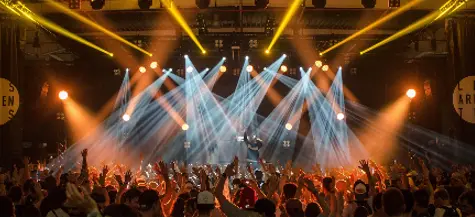
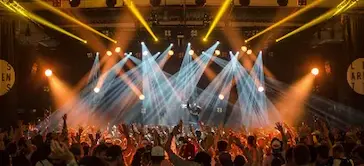
Update script and image

diff --git a/index.html b/index.html
@@ -4,12 +4,16 @@
     <meta charset="UTF-8" />
     <meta name="viewport" content="width=device-width, initial-scale=1.0" />
     <title>Grimm band</title>
+    <!-- Seo -->
     <meta
       name="description"
       content="Офіційний сайт гурту: дізнайтесь про найближчі концерти, замовте виступ або зв'яжіться з нами для співпраці."
     />
     <!-- Favicon -->
     <link rel="icon" type="image/svg+xml" href="./images/favicon.ico" />
+    <!-- Preload -->
+    <link rel="preload" href="fonts/Montserrat-Bold.woff2" as="font" type="font/woff2" crossorigin>
+    <link rel="preload" href="css/main.min.css" as="style">
     <!-- Styles -->
     <link rel="stylesheet" href="./css/main.min.css" />
   </head>
@@ -17,7 +21,11 @@
     <!-- Header -->
     <header class="header">
       <div class="header__container">
-        <a class="logo__link" href="./index.html" aria-label="Перейти на головну сторінку G&G">
+        <a
+          class="logo__link"
+          href="./index.html"
+          aria-label="Перейти на головну сторінку G&G"
+        >
           <svg
             xmlns="http://www.w3.org/2000/svg"
             width="80"
@@ -65,6 +73,16 @@
       <!-- Hero -->
       <section class="hero">
         <div class="hero__container">
+          <img
+            src="grim-ta-grim.webp"
+            alt=""
+            width="1280"
+            height="720"
+            fetchpriority="high"
+            aria-hidden="true"
+            style="position: absolute; width: 0; height: 0; opacity: 0"
+          />
+
           <h1 class="hero__title">Гурт «Грим та Грім»</h1>
           <p class="hero__subtitle">
             Справжній український рок, який гуркоче в серці
@@ -426,8 +444,10 @@
       </div>
     </div>
 
-    <script src="./js/script.js"></script>
+    <script src="./js/bundle.js" defer></script>
+
+    <!-- <script src="./js/script.js"></script>
     <script src="./js/modal.js"></script>
-    <script src="./js/popup.js"></script>
+    <script src="./js/popup.js"></script> -->
   </body>
 </html>

diff --git a/js/bundle.js b/js/bundle.js
@@ -1,0 +1,54 @@
+"use strict";
+
+// === Модальное окно ===
+(() => {
+  const refs = {
+    openModalBtns: document.querySelectorAll("[data-modal-open]"),
+    closeModalBtn: document.querySelector("[data-modal-close]"),
+    modal: document.querySelector("[data-modal]"),
+  };
+
+  refs.openModalBtns.forEach((btn) => {
+    btn.addEventListener("click", toggleModal);
+  });
+
+  refs.closeModalBtn.addEventListener("click", toggleModal);
+
+  function toggleModal() {
+    refs.modal.classList.toggle("backdrop--hidden");
+  }
+})();
+
+// === Попап после формы ===
+(() => {
+  const form = document.querySelector(".contacts__form");
+  const popup = document.getElementById("thank-you-popup");
+  const popupCloseBtn = document.getElementById("popup-close");
+  const body = document.body;
+
+  form.addEventListener("submit", (e) => {
+    e.preventDefault();
+
+    popup.classList.add("popup--visible");
+    body.classList.add("body--no-scroll");
+    form.reset();
+  });
+
+  popupCloseBtn.addEventListener("click", closePopup);
+  popup.addEventListener("click", (e) => {
+    if (e.target === popup) closePopup();
+  });
+
+  function closePopup() {
+    popup.classList.remove("popup--visible");
+    body.classList.remove("body--no-scroll");
+  }
+})();
+
+// === Переключение мобильного меню ===
+document.addEventListener("click", (e) => {
+  const targetItem = e.target;
+  if (targetItem.closest(".icon-menu") || targetItem.closest(".menu__link")) {
+    document.documentElement.classList.toggle("menu-open");
+  }
+});
